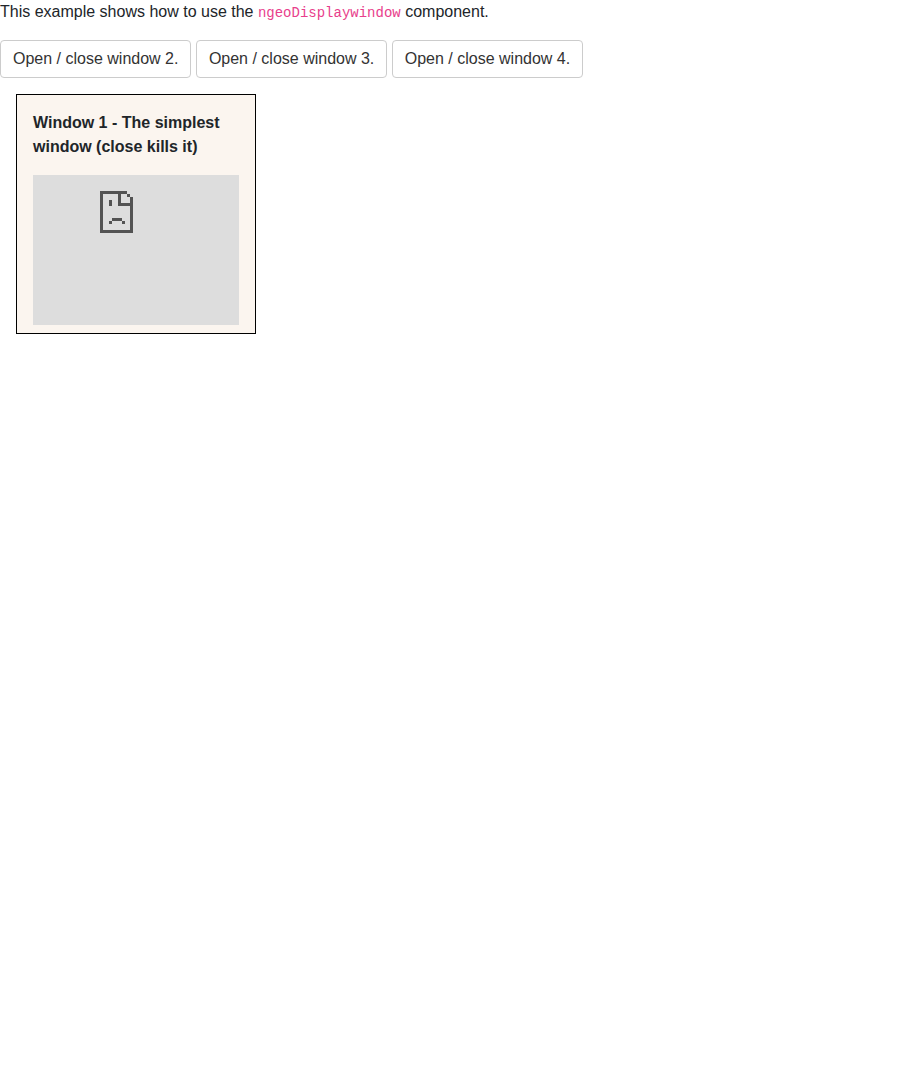
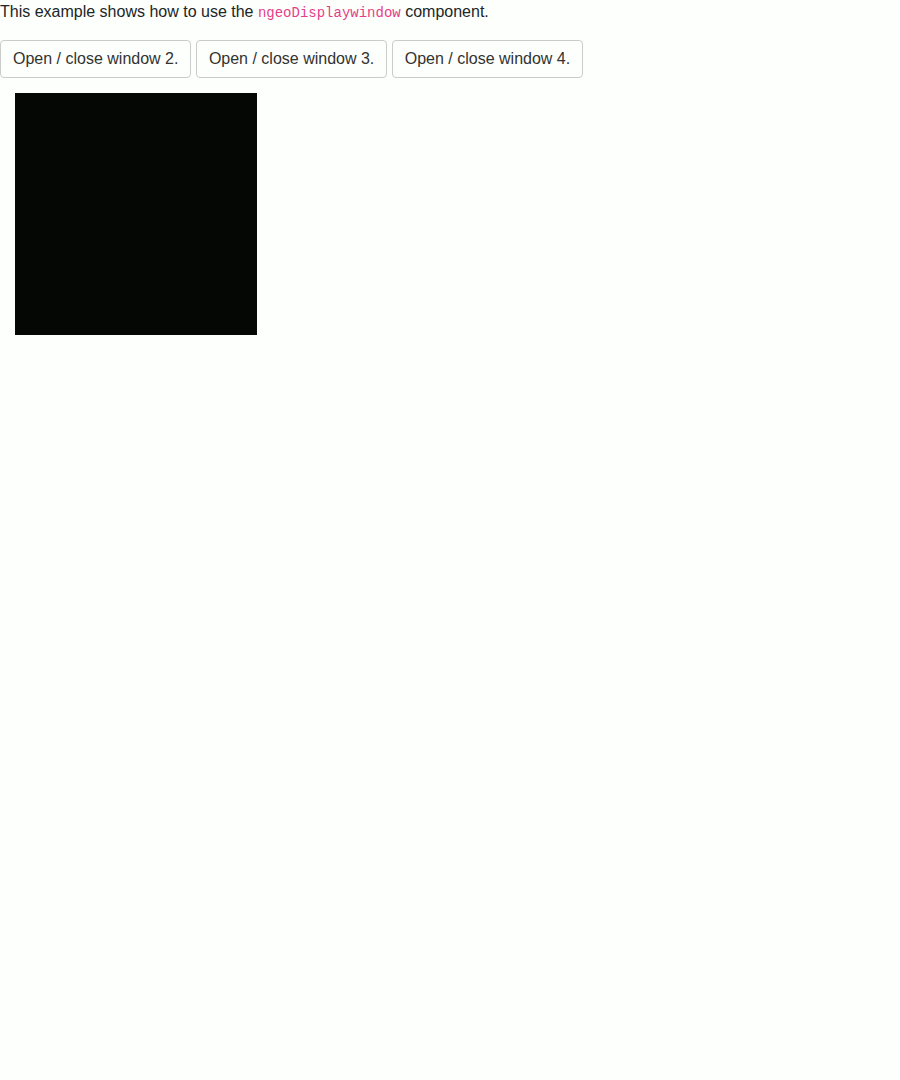
Update dependency webpack-dev-server to v5.2.6 [SECURITY] (#10155)
* Update dependency webpack-dev-server to v5.2.6 [SECURITY]

* Update displaywindow reference image

* Add CORS header to OSMImage for cross-origin tile requests

* Increase screenshot delay from 1000ms to 2000ms for WebGL rendering

* Update ref images

---------

Changed region(s): [[0.0, 0.0611, 0.3111, 0.3361]]

diff --git a/buildtools/check-example.js b/buildtools/check-example.js
@@ -58,6 +58,7 @@ function fileMock(name, contentType) {
 }
 
 const OSMImage = fileMock('osm.png', 'image/png');
+OSMImage.headers['Access-Control-Allow-Origin'] = '*';
 const ASITVDCapabilities = fileMock('asitvd.capabilities.xml', 'text/xml');
 const SgxCapabilities = fileMock('sgx.capabilities.xml', 'text/xml');
 
@@ -106,7 +107,7 @@ function loaded(page, browser) {
                 process.exit(2);
               },
             );
-        }, 1000);
+        }, 2000);
       } else {
         process.exit();
       }
